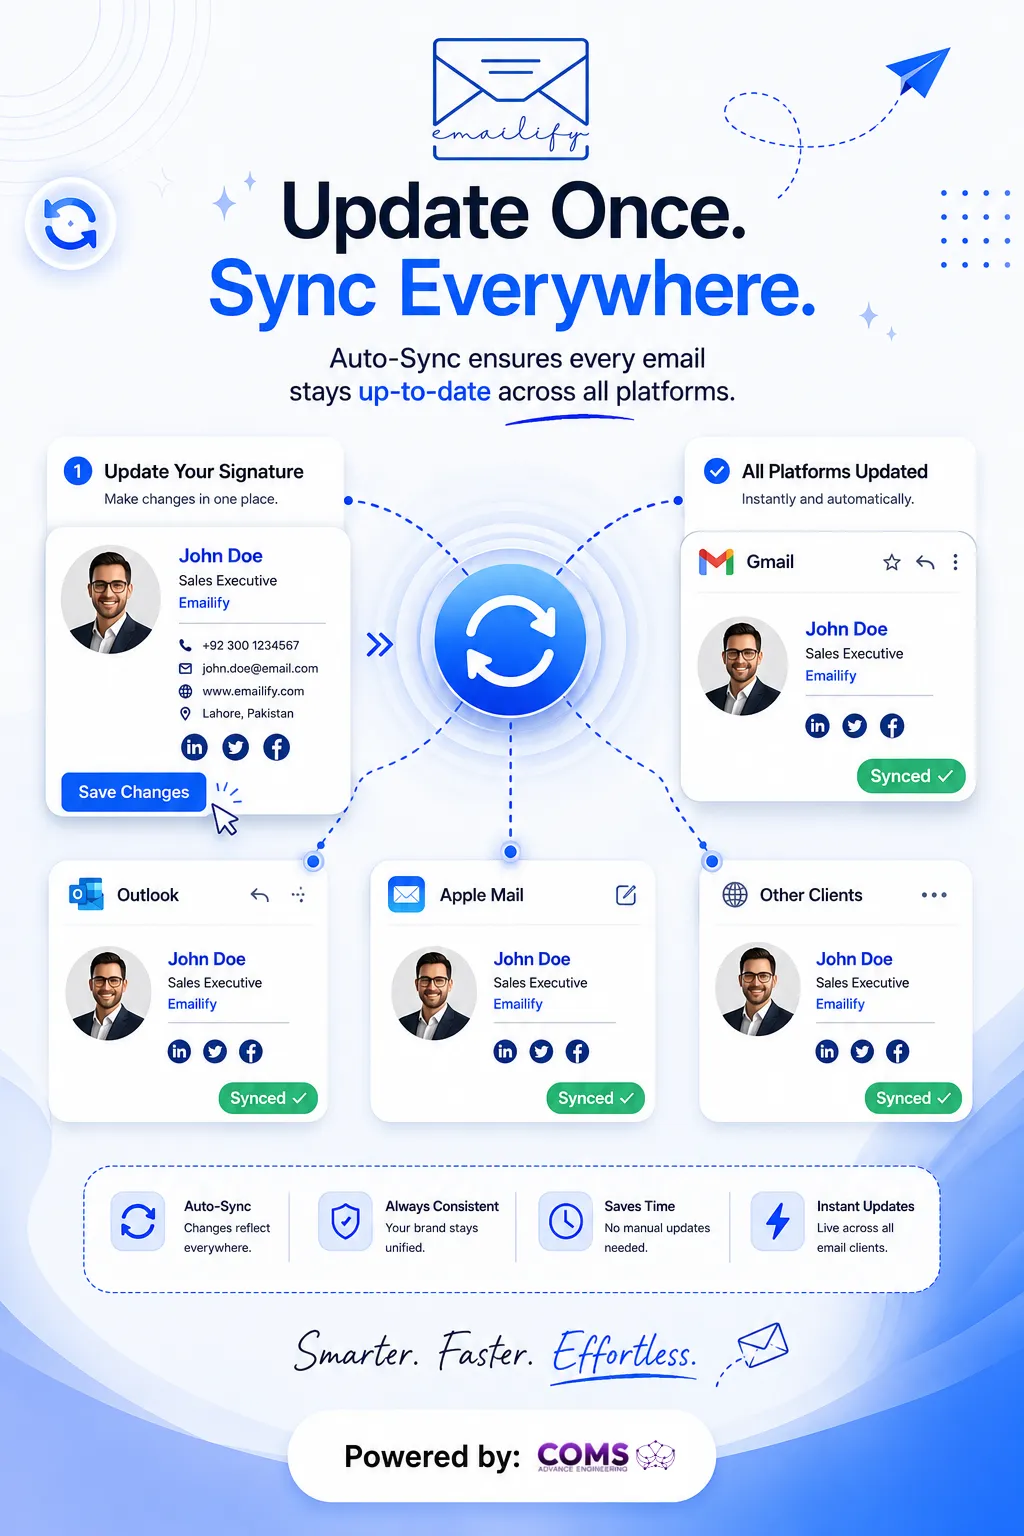
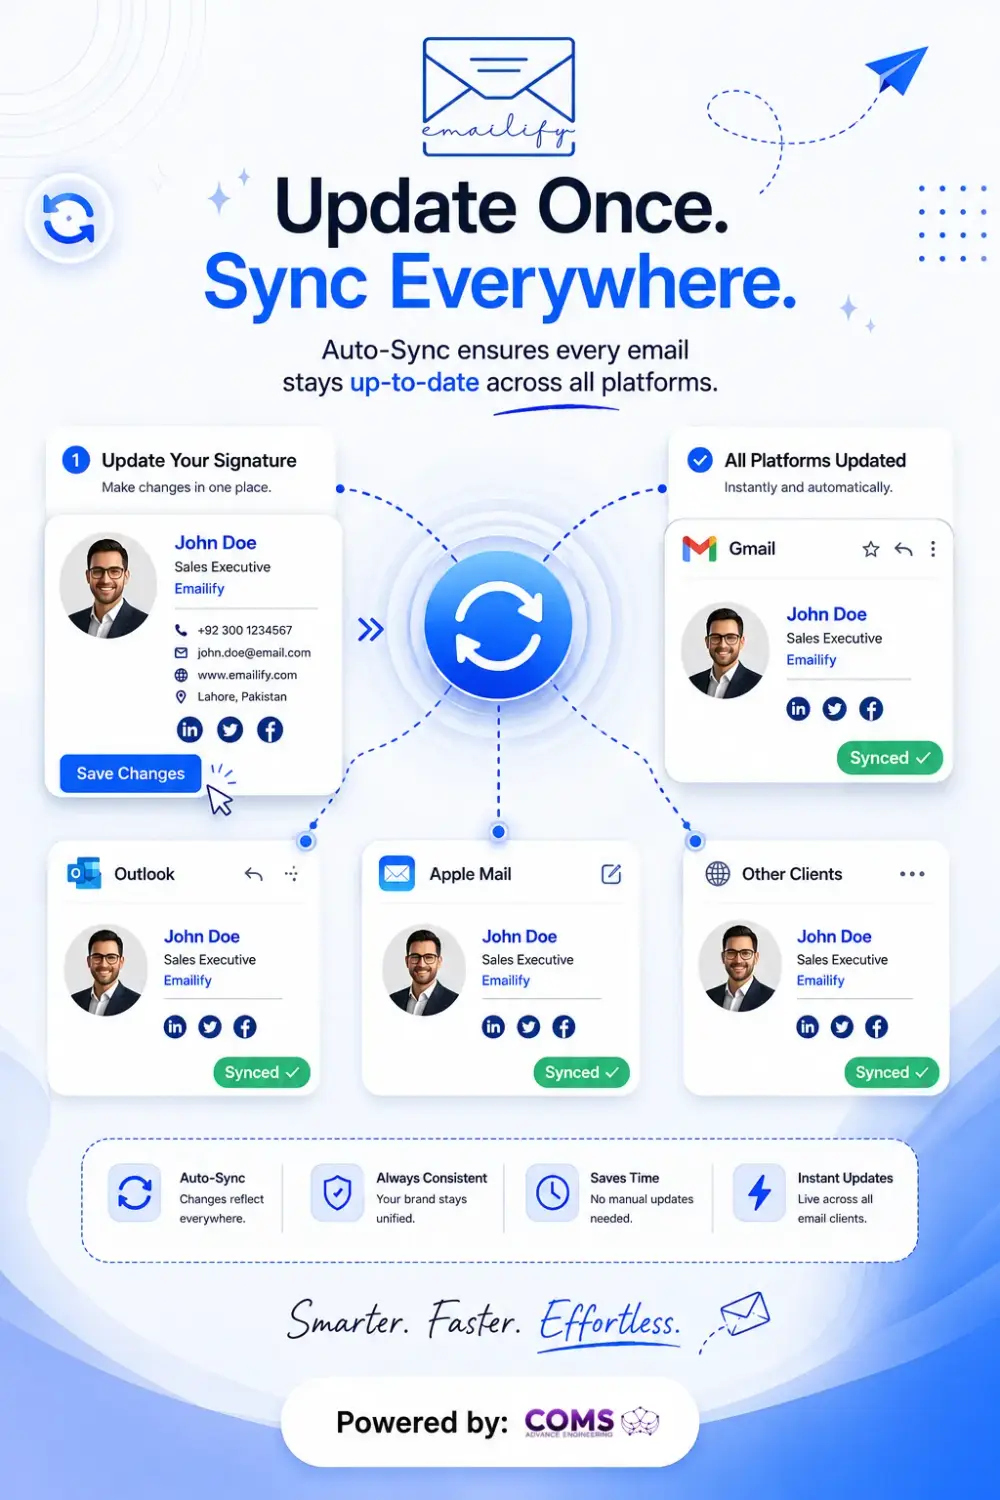
Defer Meta Pixel and further compress product screenshots
- Load fbevents.js with lazyOnload to keep it off the critical path
- Re-encode screenshots at 1000px/q72 (~35% smaller again)

Claude-Session: https://claude.ai/code/session_01MwhkpbKygfnR9oWzZmb5HY

diff --git a/app/layout.tsx b/app/layout.tsx
@@ -83,7 +83,7 @@ export default function RootLayout({
         <JsonLd data={organizationJsonLd} />
         <JsonLd data={websiteJsonLd} />
         {/* Meta Pixel Code */}
-        <Script id="meta-pixel" strategy="afterInteractive">
+        <Script id="meta-pixel" strategy="lazyOnload">
           {`
             !function(f,b,e,v,n,t,s)
             {if(f.fbq)return;n=f.fbq=function(){n.callMethod?
